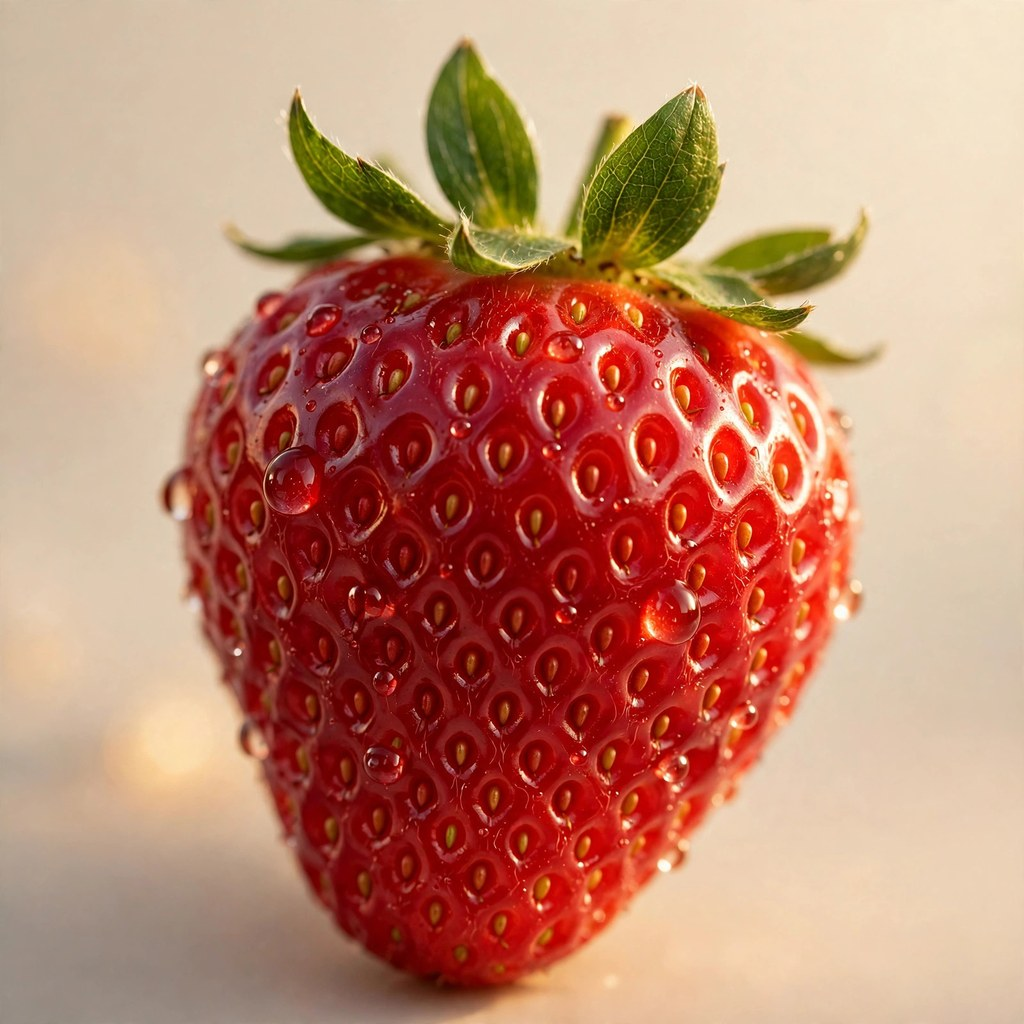
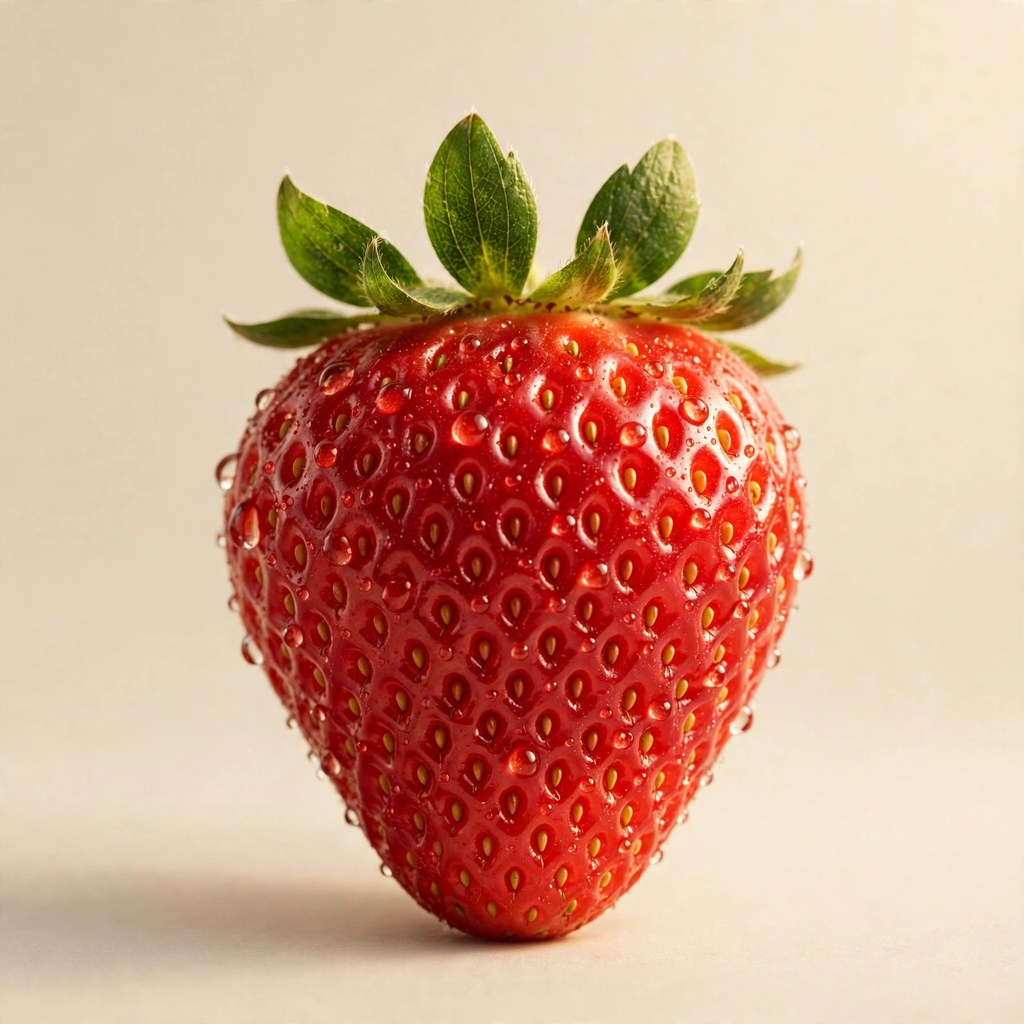
Revise main.py under recording: JPEG dimensions and clearer errors

diff --git a/main.py b/main.py
@@ -1,14 +1,30 @@
 """Picture Tastes entry: one perfect strawberry.
 
-How it works
-------------
-1. Locate ``image.jpg`` in the same directory as this file.
+How it works (step by step)
+----------------------------
+1. Locate ``image.jpg`` in the same directory as this file
+   (``os.path.dirname(os.path.abspath(__file__))``) — the entry
+   image must sit next to ``main.py`` in the repo, not in the
+   current working directory.
 2. Check the source exists and is really a JPEG (magic bytes
    ``0xFFD8`` ... ``0xFFD9``); otherwise print a clear error and exit 1.
-3. Copy its bytes unchanged to ``/output/entry.png`` — the sandbox
+3. Parse the image dimensions from the JPEG header: walk the
+   marker segments after SOI until a Start Of Frame (SOF) segment
+   is found and read its width/height fields.
+4. Copy its bytes unchanged to ``/output/entry.png`` — the sandbox
    output path required by make.fun — creating ``/output`` if needed.
-4. Verify the written file: it must be at most 1,048,576 bytes and
-   carry valid JPEG magic bytes, then print a one-line summary.
+5. Verify the written file: it must be at most 1,048,576 bytes and
+   carry valid JPEG magic bytes, then print a one-line summary
+   including the size and the parsed dimensions (e.g. 1024x1024).
+
+Errors
+------
+- ``image.jpg`` missing: the program prints the exact absolute path
+  it looked for and a hint to place the entry image next to
+  ``main.py`` (run from the repo root or copy the file there),
+  then exits 1 — no output file is written.
+- Source not a JPEG / output too large / bad magic bytes: a
+  one-line ``error: ...`` message on stderr and exit 1.
 
 Standard library only; no network access. The entry image itself is
 never modified, only copied.
@@ -31,6 +47,53 @@ def _is_jpeg(path: str) -> bool:
     return head == b"\xff\xd8" and tail == b"\xff\xd9"
 
 
+_SOF_MARKERS = frozenset(
+    [0xC0, 0xC1, 0xC2, 0xC3, 0xC5, 0xC6, 0xC7,
+     0xC9, 0xCA, 0xCB, 0xCD, 0xCE, 0xCF]
+)
+
+
+def _jpeg_dimensions(path: str):
+    """Parse width/height from the JPEG SOF marker header.
+
+    Walks the marker segments after the SOI marker until a Start Of
+    Frame segment is found; its payload is precision (1 byte), height
+    (2 bytes, big-endian), width (2 bytes, big-endian). Returns
+    ``(width, height)`` or ``None`` if no SOF segment is found.
+    """
+    try:
+        with open(path, "rb") as fh:
+            data = fh.read()
+    except OSError:
+        return None
+    if len(data) < 4 or data[0:2] != b"\xff\xd8":
+        return None
+    pos = 2
+    while pos + 1 < len(data):
+        if data[pos] != 0xFF:
+            pos += 1
+            continue
+        marker = data[pos + 1]
+        # Skip padding / fill bytes and standalone markers.
+        if marker == 0xFF:
+            pos += 1
+            continue
+        if marker in (0x00, 0xD8, 0xD9) or 0xD0 <= marker <= 0xD7:
+            pos += 2
+            continue
+        if pos + 4 > len(data):
+            return None
+        seg_len = int.from_bytes(data[pos + 2:pos + 4], "big")
+        if marker in _SOF_MARKERS:
+            if pos + 9 > len(data):
+                return None
+            height = int.from_bytes(data[pos + 5:pos + 7], "big")
+            width = int.from_bytes(data[pos + 7:pos + 9], "big")
+            return (width, height)
+        pos += 2 + seg_len
+    return None
+
+
 def main() -> int:
     here = os.path.dirname(os.path.abspath(__file__))
     source = os.path.join(here, "image.jpg")
@@ -38,7 +101,12 @@ def main() -> int:
     dest = os.path.join(dest_dir, "entry.png")
 
     if not os.path.isfile(source):
-        print(f"error: source image not found: {source}", file=sys.stderr)
+        print(
+            f"error: source image not found: {source}\n"
+            f"  hint: place image.jpg next to main.py in {here} "
+            f"(the entry image must be in the same directory as this script)",
+            file=sys.stderr,
+        )
         return 1
     if not _is_jpeg(source):
         print(f"error: source is not a valid JPEG: {source}", file=sys.stderr)
@@ -59,7 +127,9 @@ def main() -> int:
     if head != b"\xff\xd8" or tail != b"\xff\xd9":
         print("error: output is not a valid JPEG (bad magic bytes)", file=sys.stderr)
         return 1
-    print(f"wrote {dest} ({size} bytes, JPEG OK)")
+    dims = _jpeg_dimensions(dest)
+    dims_text = f", {dims[0]}x{dims[1]}" if dims else ", dimensions unknown"
+    print(f"wrote {dest} ({size} bytes, JPEG OK{dims_text})")
     return 0
 
 

diff --git a/README.md b/README.md
@@ -1,16 +1,18 @@
 # The picture that tastes of one ingredient
 
-One perfect ripe strawberry — glossy, fresh, beaded with water, its green
-calyx still on top — shot as a warm, mouth-watering hero photograph against
-a soft cream background. A single ingredient, front and centre, so one look
-is enough to taste it.
+One perfect strawberry, photographed as if you could taste it: glossy red,
+cool water droplets, fresh green leaves, warm light, nothing else in the
+frame. A single ingredient, doing all the talking.
+
+## Entry
+
+- `image.jpg` — the entry picture (1024 × 1024 JPEG): one ripe strawberry,
+  hero shot, centred on a neutral cream background.
+- `main.py` — copies `image.jpg` unchanged to `/output/entry.png`,
+  verifying it is a real JPEG within the 1,048,576-byte limit.
+
+## Badges
 
 [![Competition](https://make.fun/badge/the-picture-that-tastes-of-one-20261122-2047.svg)](https://make.fun/bounty/the-picture-that-tastes-of-one-20261122-2047)
 [![Rank](https://make.fun/badge/the-picture-that-tastes-of-one-20261122-2047/iqbalbeladaz/picture-tastes/rank.svg)](https://make.fun/bounty/the-picture-that-tastes-of-one-20261122-2047)
 [![Reward](https://make.fun/badge/the-picture-that-tastes-of-one-20261122-2047/iqbalbeladaz/picture-tastes/reward.svg)](https://make.fun/bounty/the-picture-that-tastes-of-one-20261122-2047)
-
-## How it works
-
-`main.py` (Python 3.13, standard library only) copies the committed
-`image.jpg` (1024×1024) to `/output/entry.png`. It runs in a sandbox with
-no network access.
